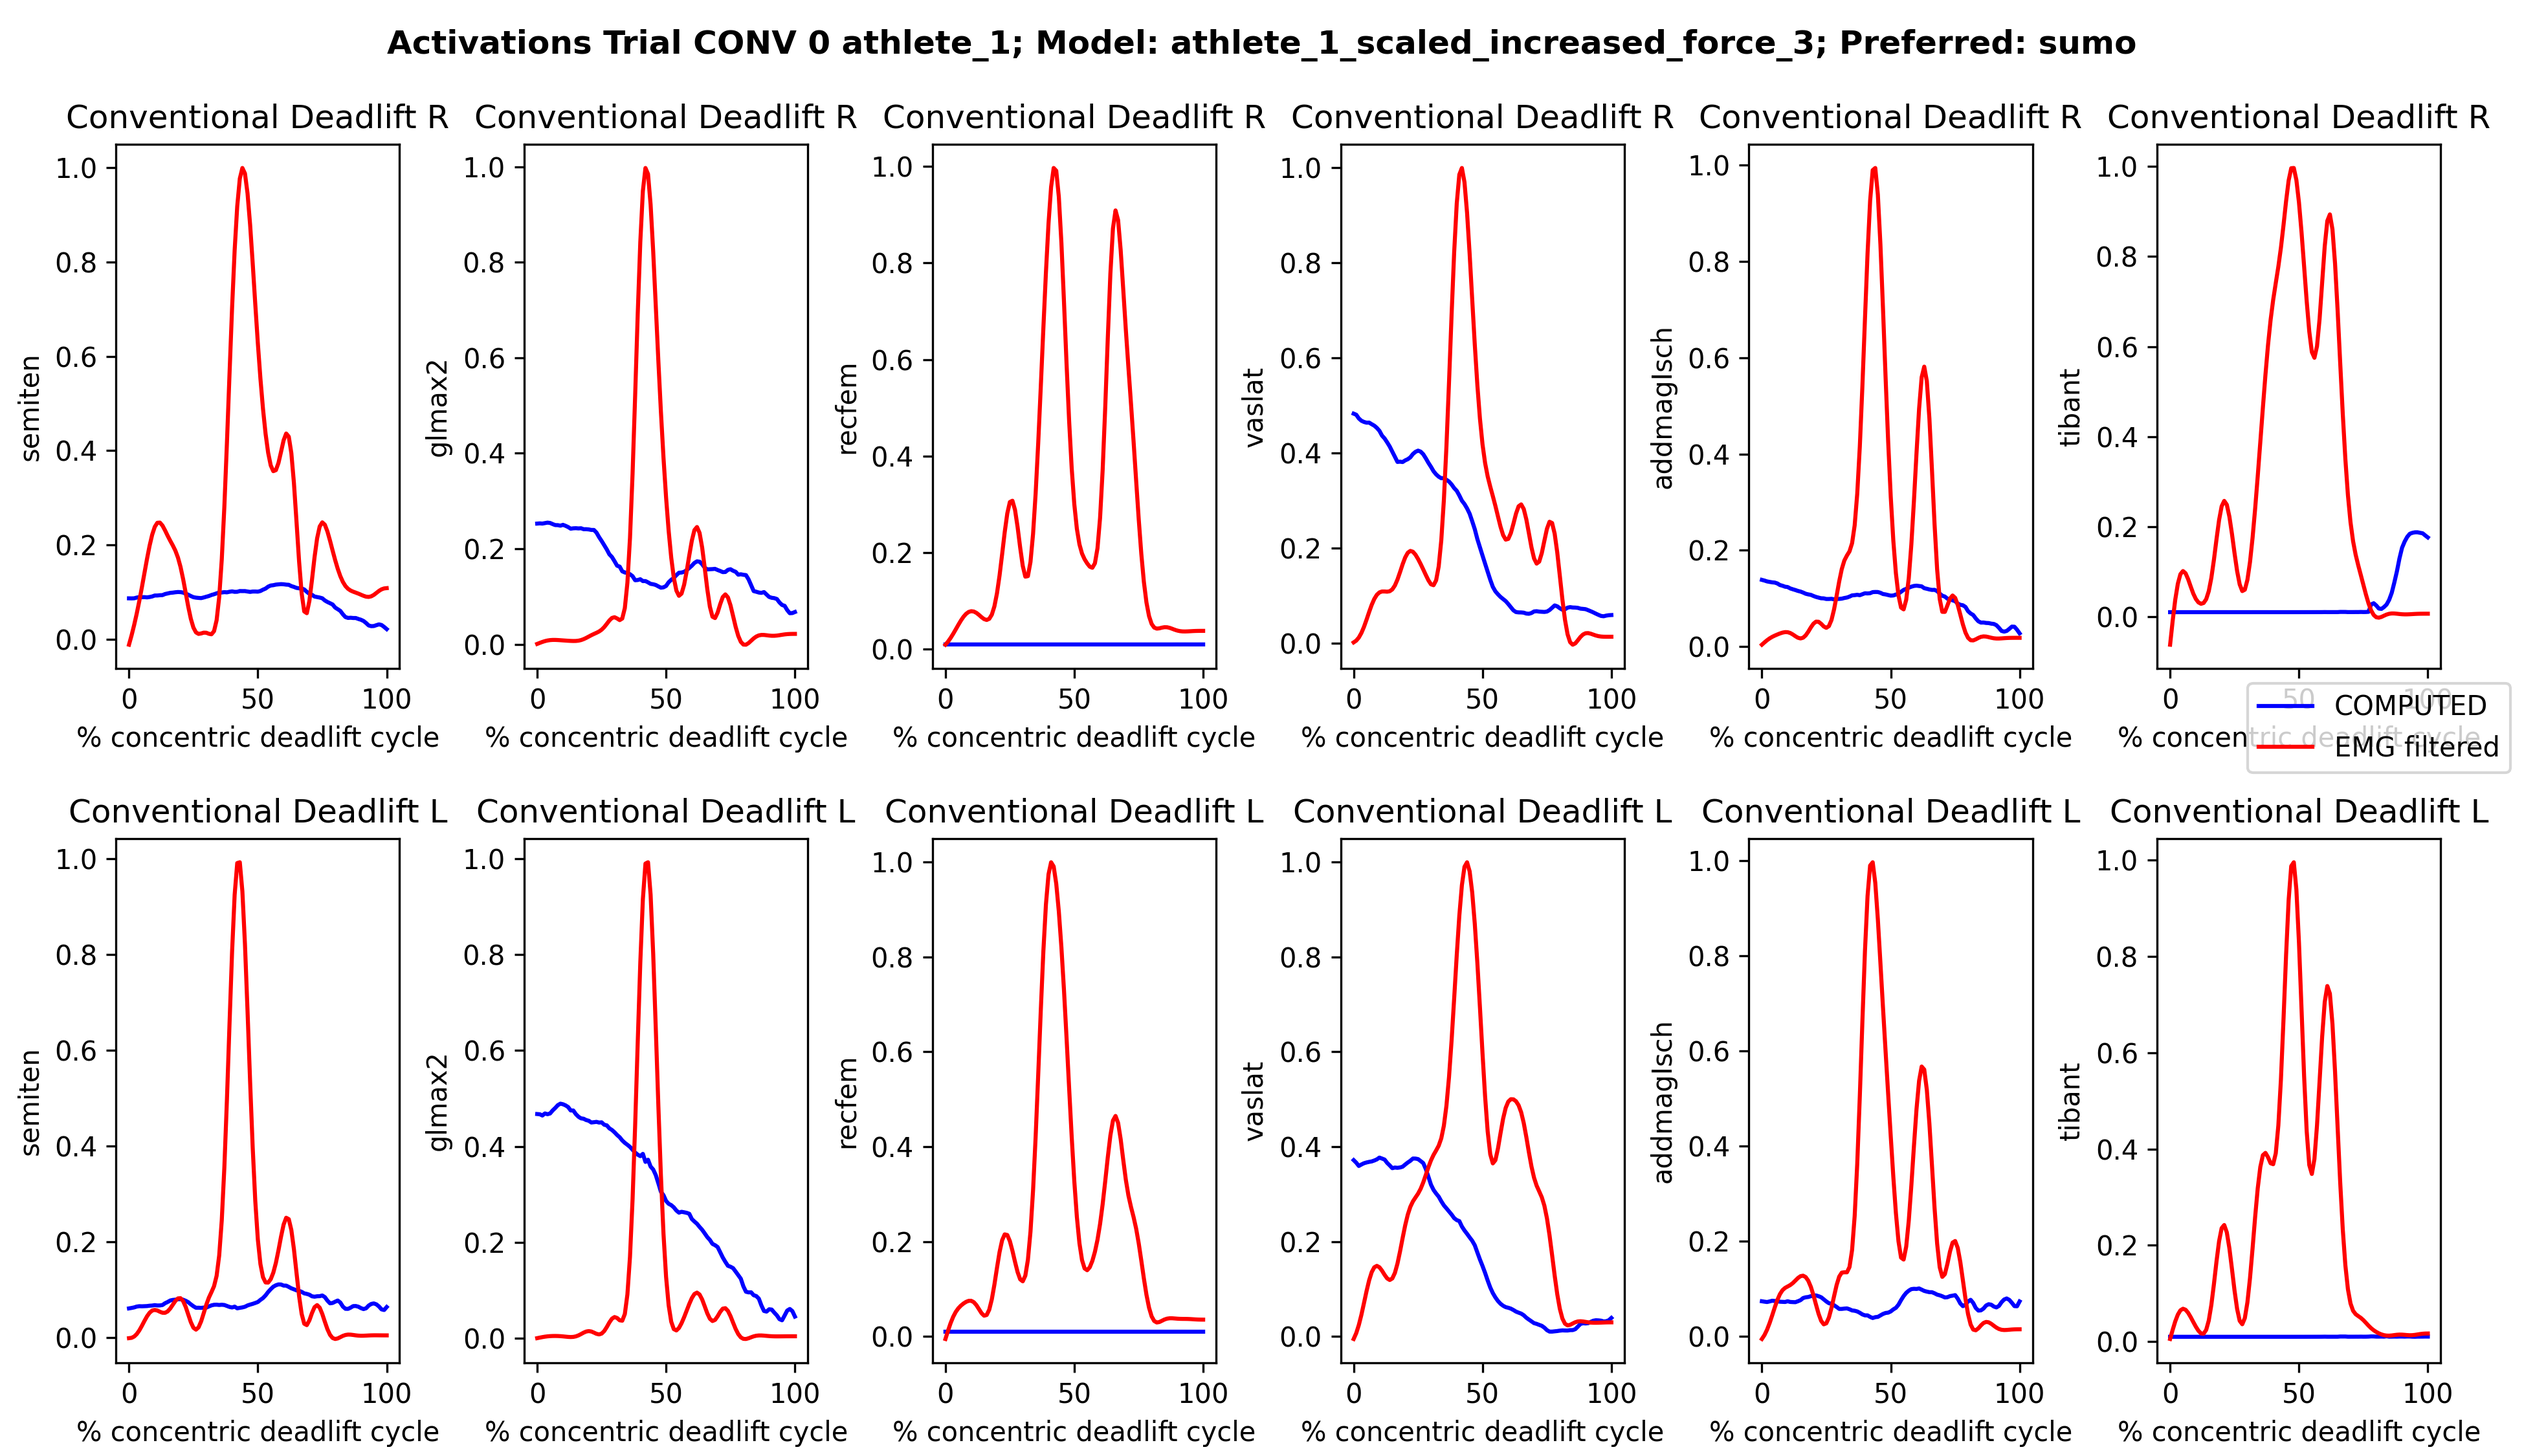
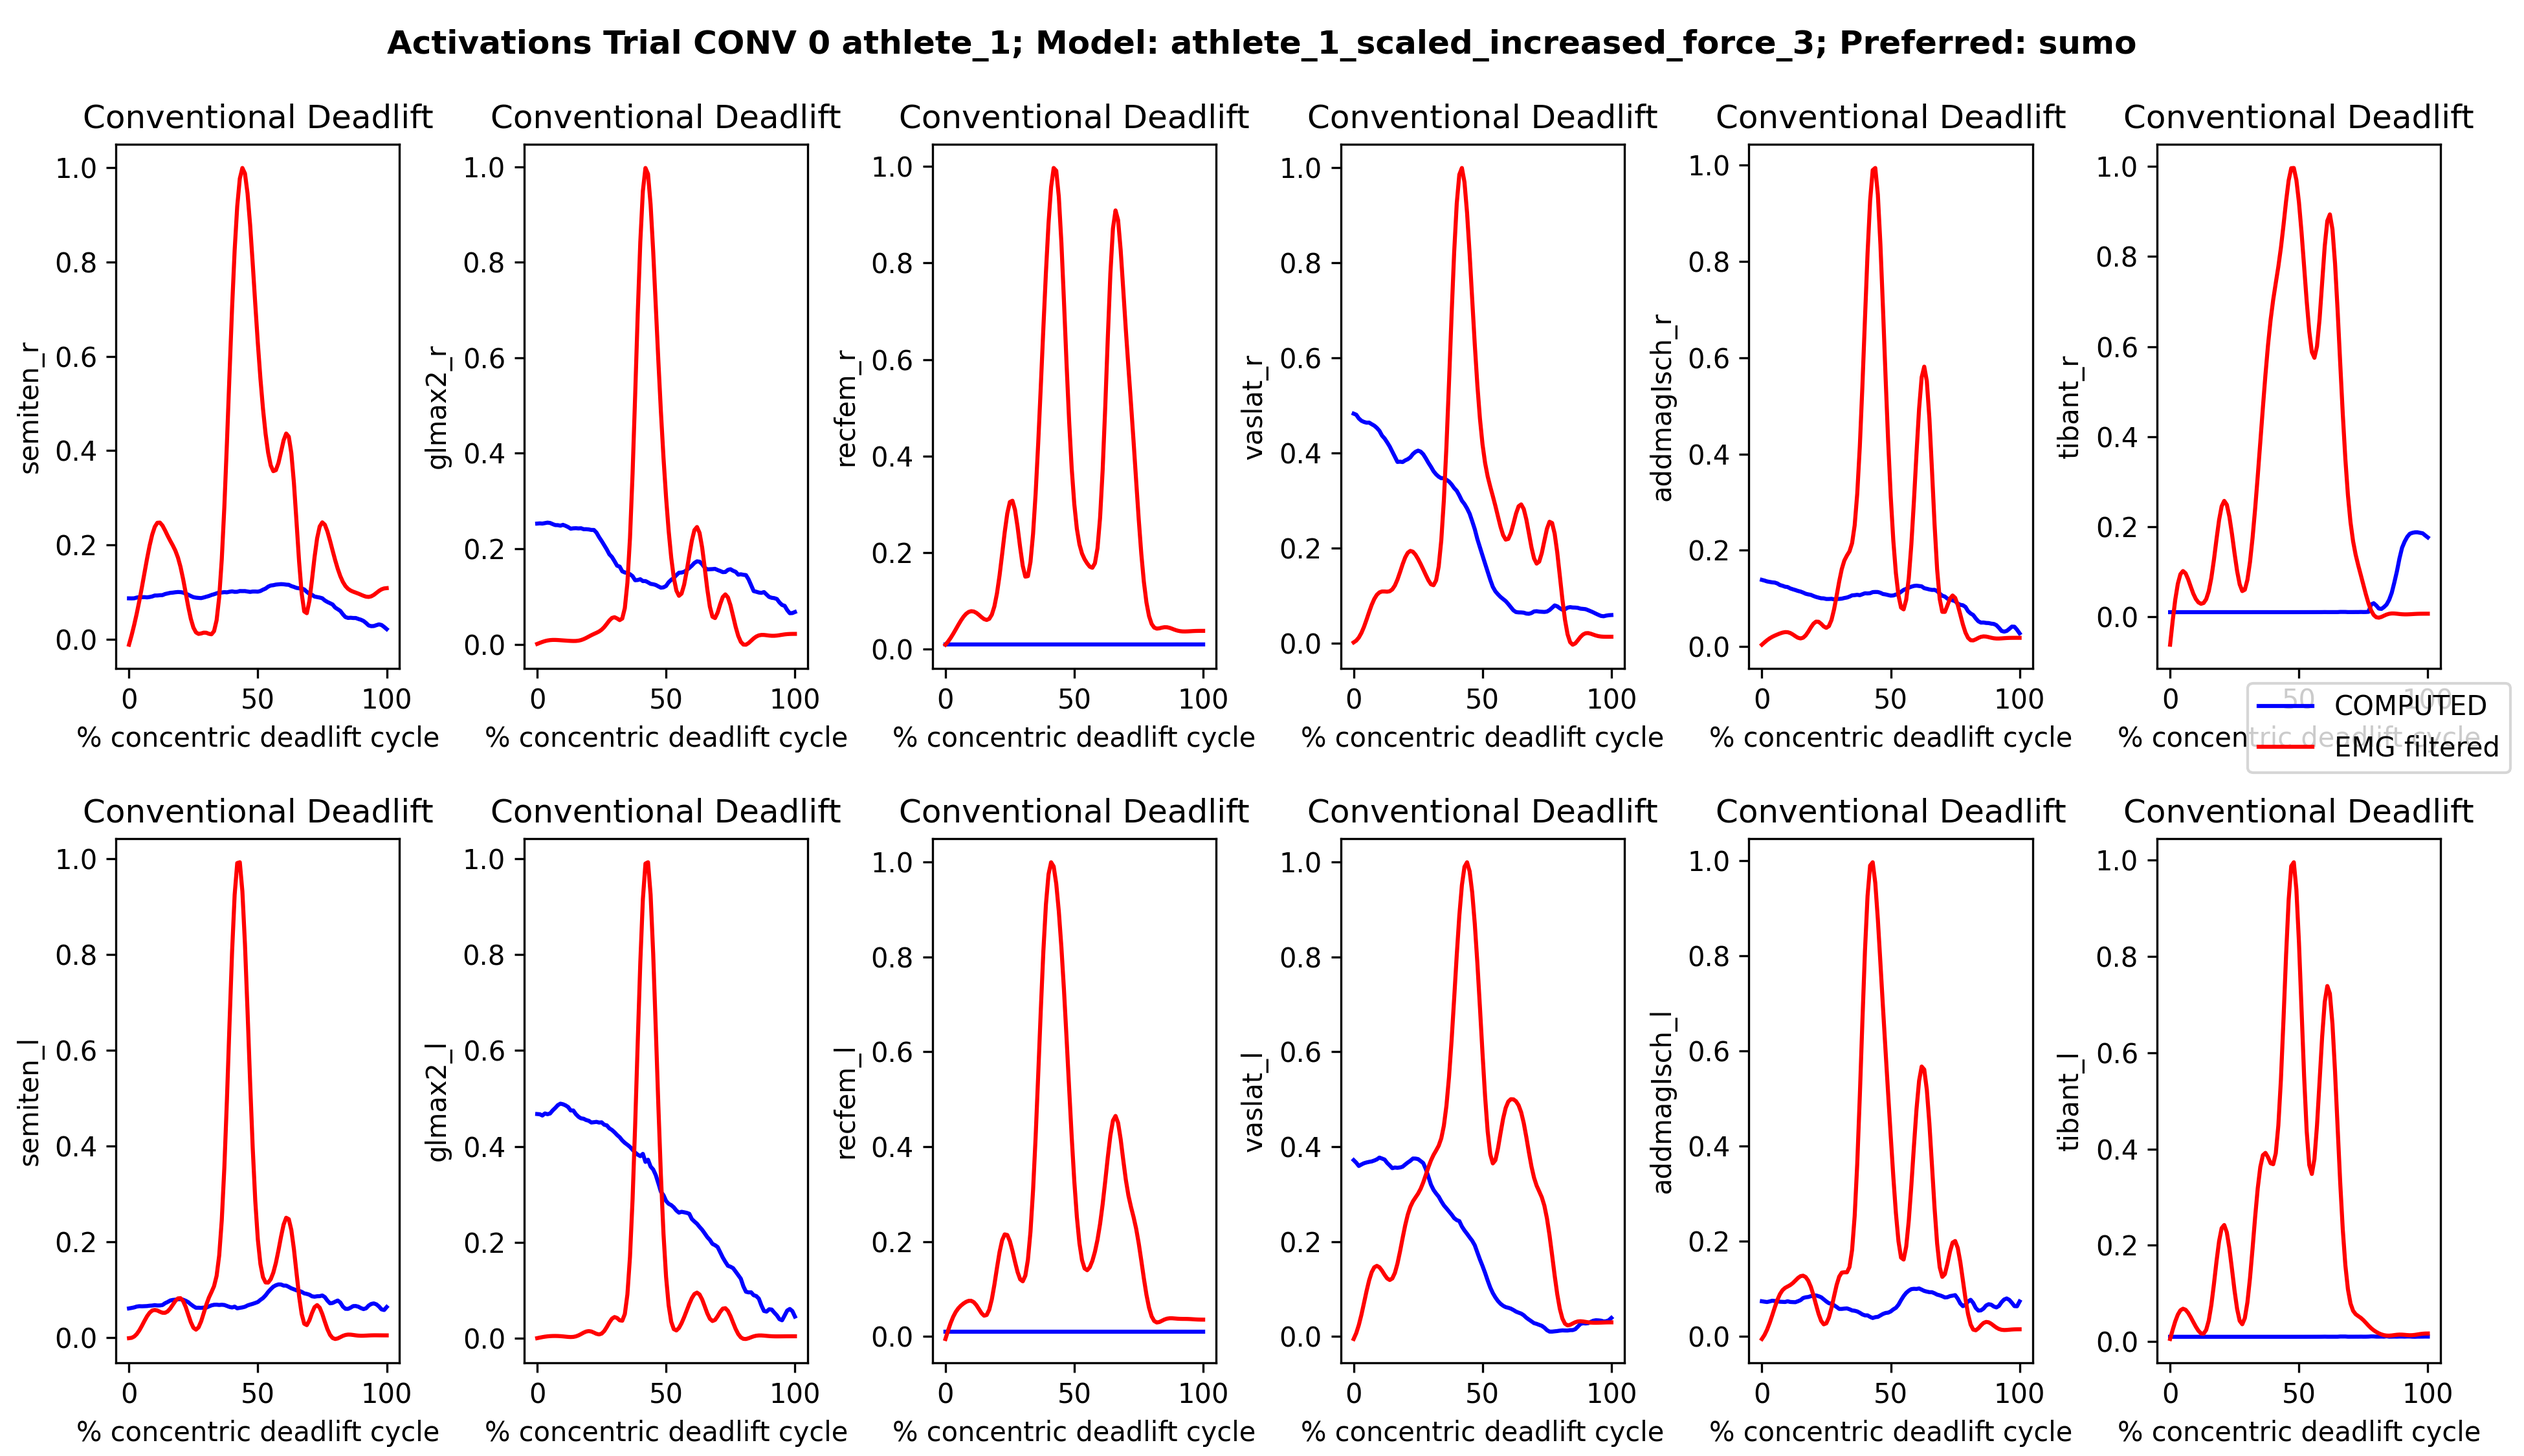
Adjust plot legends

diff --git a/python/src/activationsComparison.py b/python/src/activationsComparison.py
@@ -66,18 +66,10 @@ def run_activations_comparison_from_emg(bool):
                 "tibant_l",
             ]
 
-            ylabels = [
-                "semiten",
-                "glmax2",
-                "recfem",
-                "vaslat",
-                "addmagIsch",
-                "tibant",
-            ]
             for i in range(len(coordinates_r)):
                 current_muscle = coordinates_r[i]
                 plt.sca(axs[0, i])
-                plt.title("Conventional Deadlift R")
+                plt.title("Conventional Deadlift")
                 plt.plot(
                     active_athlete_activations_conv_time_normalised_0[current_muscle],
                     label="COMPUTED",
@@ -95,13 +87,13 @@ def run_activations_comparison_from_emg(bool):
                                 color=color_emg,
                             )
 
-                plt.ylabel(ylabels[i])
+                plt.ylabel(current_muscle)
                 plt.xlabel(x_label)
 
             for j in range(len(coordinates_l)):
                 current_muscle = coordinates_l[j]
                 plt.sca(axs[1, j])
-                plt.title("Conventional Deadlift L")
+                plt.title("Conventional Deadlift")
                 plt.plot(
                     active_athlete_activations_conv_time_normalised_0[current_muscle],
                     label="COMPUTED",
@@ -117,7 +109,7 @@ def run_activations_comparison_from_emg(bool):
                                 color=color_emg,
                             )
 
-                plt.ylabel(ylabels[j])
+                plt.ylabel(current_muscle)
                 plt.xlabel(x_label)
 
             handles, labels = axs[
